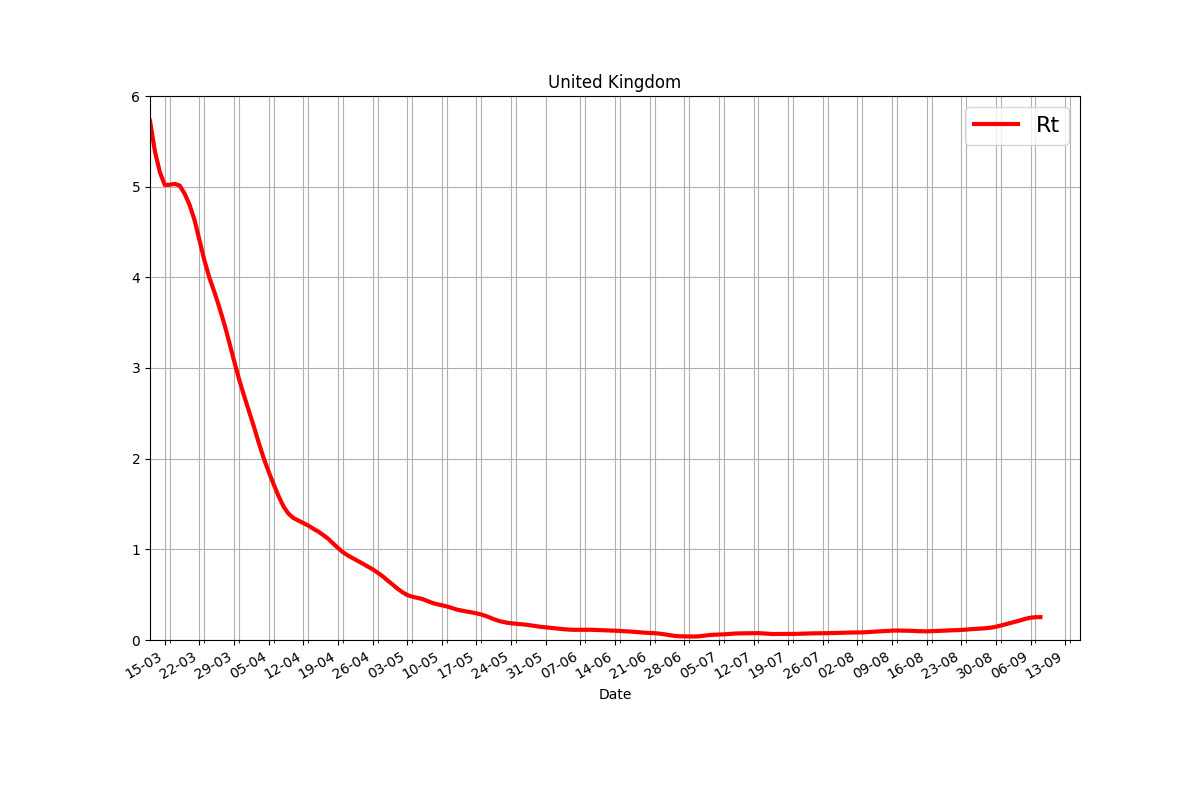
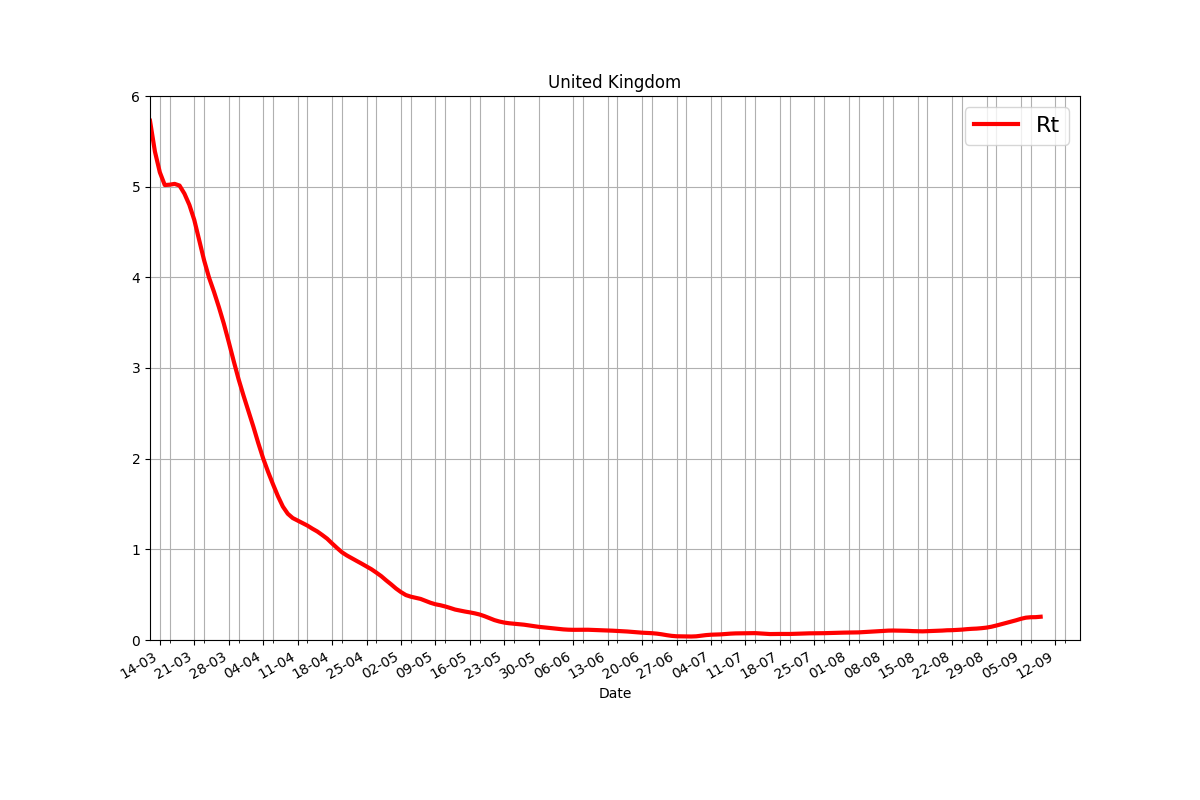
-

Changed region(s): [[0.0925, 0.125, 0.8942, 0.875], [0.1542, 0.3125, 0.185, 0.375], [0.8325, 0.75, 0.8633, 0.7812]]

diff --git a/en/2020/02/corona.md b/en/2020/02/corona.md
@@ -122,9 +122,8 @@ print (df[['Date','Rt']].tail(10))
 
 ```text
           Date        Rt
-229 2020-09-07  0.251241
 230 2020-09-08  0.252020
-231 2020-09-09       NaN
+231 2020-09-09  0.256549
 232 2020-09-10       NaN
 233 2020-09-11       NaN
 234 2020-09-12       NaN
@@ -132,6 +131,7 @@ print (df[['Date','Rt']].tail(10))
 236 2020-09-14       NaN
 237 2020-09-15       NaN
 238 2020-09-16       NaN
+239 2020-09-17       NaN
 ```
 
 ![](Rt-UnitedKingdom.png)

diff --git a/en/README.md b/en/README.md
@@ -94,7 +94,7 @@ the first movie they showed in cinemas. I wonder why...
 
 ---
 
-That's not what Black Panther was about.. It was abt simply having a
+That's not what *Black Panther* was about.. It was abt simply having a
 black king on screen, about "representing". R, e, s, p, e, c and t.
 
 Which is *sorta* fine... There are so many movies abt European kings,
